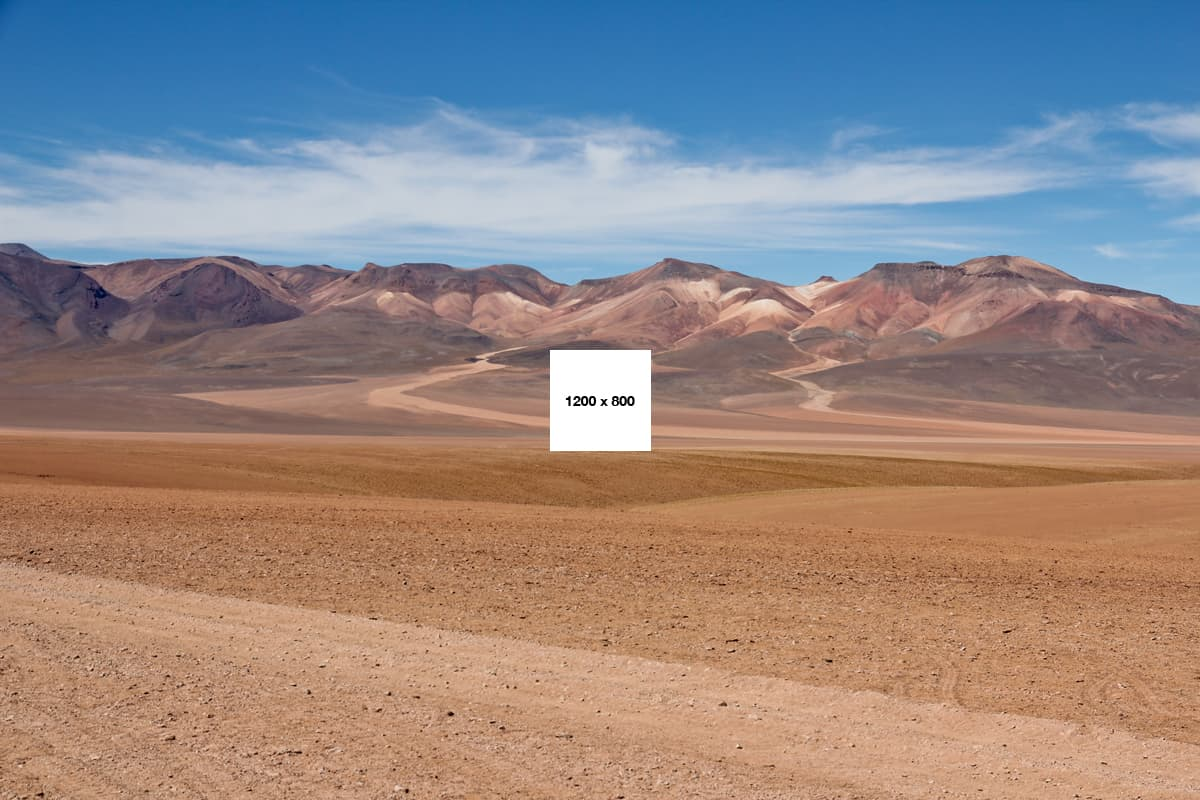
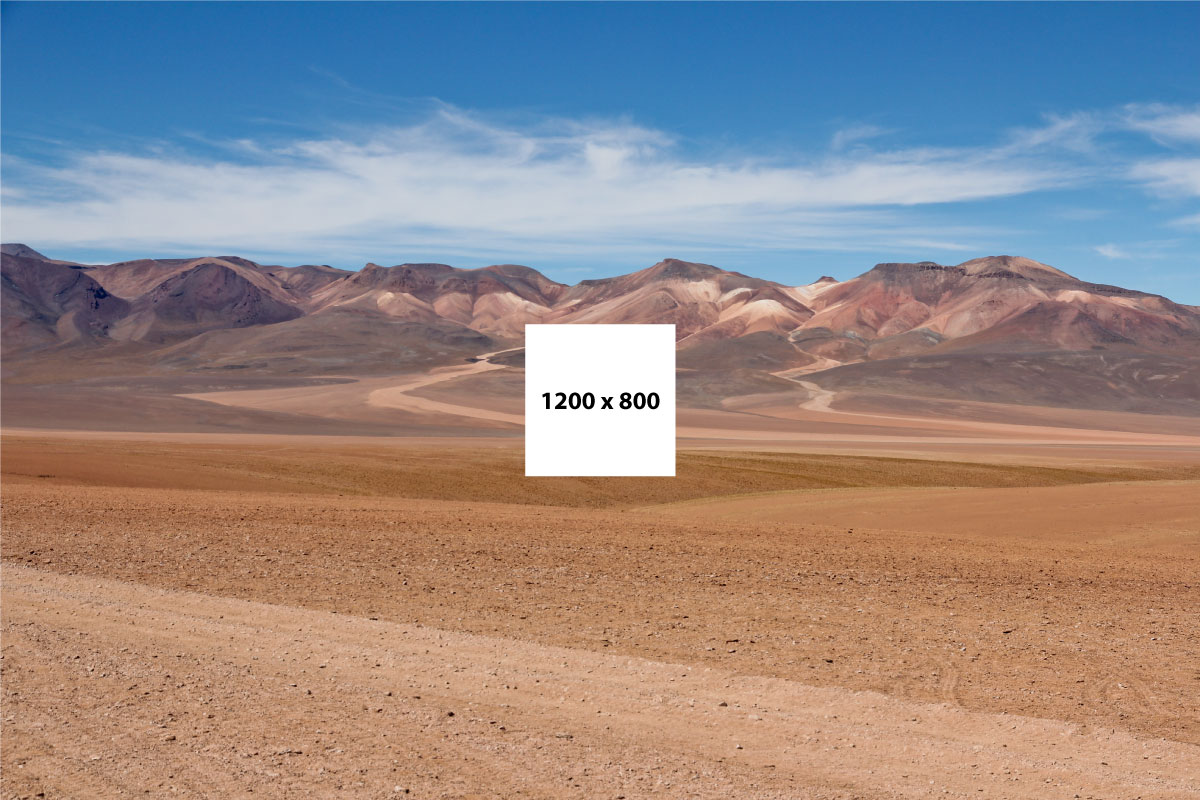
Example page - Updated images & added correct picture element example

diff --git a/index.html b/index.html
@@ -1,7 +1,7 @@
 <!DOCTYPE html>
 <html>
     <head>
-        <title>Object fit</title>
+        <title>Object fit cover</title>
         <meta name="viewport" content="width=device-width, initial-scale=1"/>
 
         <script src="objectfitcover.min.js"></script>
@@ -18,15 +18,17 @@
                 height: 300px;
             }
 
-            .object-fit-container-example-4 {
+            .object-fit-container-example-3 {
                 width: 100%;
                 height: 300px;
-                background-position: left top;
             }
 
-            .object-fit-container-example-4 img {
-                object-position: 0 0;
+            @media (max-width: 991px) {
+                .object-fit-container-example-3 {
+                    height: 600px;
+                }
             }
+
         </style>
 
         <link rel="stylesheet" href="bootstrap.min.css" />
@@ -53,11 +55,11 @@
 
                         <pre>
 &lt;div class="object-fit-container cover object-fit-container-example-1">
-    &lt;img src="example-images/example1@1200x800.jpg" alt="Example image" />
+    &lt;img src="example-images/example1@1200x600.jpg" alt="Example image" />
 &lt;/div>
 </pre>
                         <div class="object-fit-container cover object-fit-container-example-1">
-                            <img src="example-images/example1@1200x800.jpg"
+                            <img src="example-images/example1@1200x600.jpg"
                                  alt="Example 1" />
                         </div>
                     </div>
@@ -79,11 +81,11 @@
 
                         <pre>
 &lt;div class="object-fit-container cover object-fit-container-example-2">
-    &lt;img src="example-images/example2@400x267.jpg"
+    &lt;img src="example-images/example2@400x266.jpg"
          srcset="example-images/example2@2400x1600.jpg 2400w,
                  example-images/example2@1200x800.jpg 1200w,
                  example-images/example2@800x533.jpg 800w,
-                 example-images/example2@400x267.jpg 400w"
+                 example-images/example2@400x266.jpg 400w"
          sizes="(min-width: 1200px) 1170px,
                 (min-width: 992px) 970px,
                 (min-width: 768px) 750px,
@@ -92,11 +94,11 @@
 &lt;/div>
 </pre>
                         <div class="object-fit-container cover object-fit-container-example-2">
-                            <img src="example-images/example2@400x267.jpg"
+                            <img src="example-images/example2@400x266.jpg"
                                  srcset="example-images/example2@2400x1600.jpg 2400w,
                                          example-images/example2@1200x800.jpg 1200w,
                                          example-images/example2@800x533.jpg 800w,
-                                         example-images/example2@400x267.jpg 400w"
+                                         example-images/example2@400x266.jpg 400w"
                                  sizes="(min-width: 1200px) 1170px,
                                         (min-width: 992px) 970px,
                                         (min-width: 768px) 750px,
@@ -116,57 +118,63 @@
                 <div class="panel panel-default">
                     <div class="panel-body">
                         <pre>
-.object-fit-container-example-2 {
+.object-fit-container-example-3 {
     width: 100%;
     height: 300px;
+}
+
+@media (max-width: 991px) {
+    .object-fit-container-example-3 {
+        height: 600px;
+    }
 }
 </pre>
 
                         <pre>
-&lt;div class="object-fit-container cover object-fit-container-example-2">
-    &lt;img src="example-images/example2@1200x800.jpg"
-         srcset="example-images/example2@2400x1600.jpg 2400w,
-                 example-images/example2@1200x800.jpg 1200w,
-                 example-images/example2@800x533.jpg 800w,
-                 example-images/example2@400x267.jpg 400w"
-         sizes="(min-width: 1200px) 1170px,
-                (min-width: 992px) 970px,
-                (min-width: 768px) 750px,
-                100vw"
-         alt="Example 2" />
+&lt;div class="object-fit-container cover object-fit-container-example-3">
+    &lt;picture>
+        &lt;!--[if IE 9]>&lt;video style="display: none;">&lt;![endif]-->
+
+        // the portrait picture
+        &lt;source media="(max-width: 991px)"
+            srcset="example-images/example3-portrait@800x1200.jpg 800w,
+                    example-images/example3-portrait@400x600.jpg 400w"
+            sizes="(min-width: 768px) 720px, 100vw">
+        &lt;!--[if IE 9]>&lt;/video>&lt;![endif]-->
+
+        // the landscape picture
+        &lt;img srcset="example-images/example3-landscape@2400x1350.jpg 2400w,
+                     example-images/example3-landscape@1200x675.jpg 1200w"
+            sizes="(min-width: 1200px) 1140px, (min-width: 992px) 940px"
+            alt="Example 3" />
+    &lt;/picture>
 &lt;/div>
 </pre>
-                        <div class="object-fit-container cover object-fit-container-example-2">
+<p>
+    Note: More about the IE9 fix on the <a href="http://scottjehl.github.io/picturefill/#ie9">Picturefill website</a>.
+</p>
+                        <div class="object-fit-container cover object-fit-container-example-3">
                             <picture>
-                                <source media="(min-width: 768px)"
-                                    srcset="example-images/example2@2400x1600.jpg 2400w,
-                                         example-images/example2@1200x800.jpg 1200w,
-                                         example-images/example2@800x533.jpg 800w,
-                                         example-images/example2@400x267.jpg 400w"
-                                 sizes="(min-width: 1200px) 1170px,
-                                        (min-width: 992px) 970px,
-                                        (min-width: 768px) 750px,
-                                        100vw">
+                                <!--[if IE 9]><video style="display: none;"><![endif]-->
+                                <source media="(max-width: 991px)"
+                                    srcset="example-images/example3-portrait@800x1200.jpg 800w,
+                                            example-images/example3-portrait@400x600.jpg 400w"
+                                    sizes="(min-width: 768px) 720px, 100vw">
+                                <!--[if IE 9]></video><![endif]-->
 
-                            <img src="example-images/example1@1200x800.jpg"
-                                 sizes="100vw"
-                                 alt="Example 3" />
+                                <img
+                                  srcset="example-images/example3-landscape@2400x1350.jpg 2400w,
+                                          example-images/example3-landscape@1200x675.jpg 1200w"
+                                  sizes="(min-width: 1200px) 1140px, (min-width: 992px) 940px"
+                                  alt="Example 3" />
                             </picture>
                         </div>
+
                         <p>
                             Note: You only will see a changing src image when starting with a small viewport width. When the browsers already has downloaded a larger image, then the smaller isn't downloaded anymore.
                         </p>
                     </div>
                 </div>
-
-
-            </div>
-
-
-            <div>
-                IE8<br>
-                non-js fallback?<br>
-                dynamically loaded fixen<br>
 
 
             </div>
